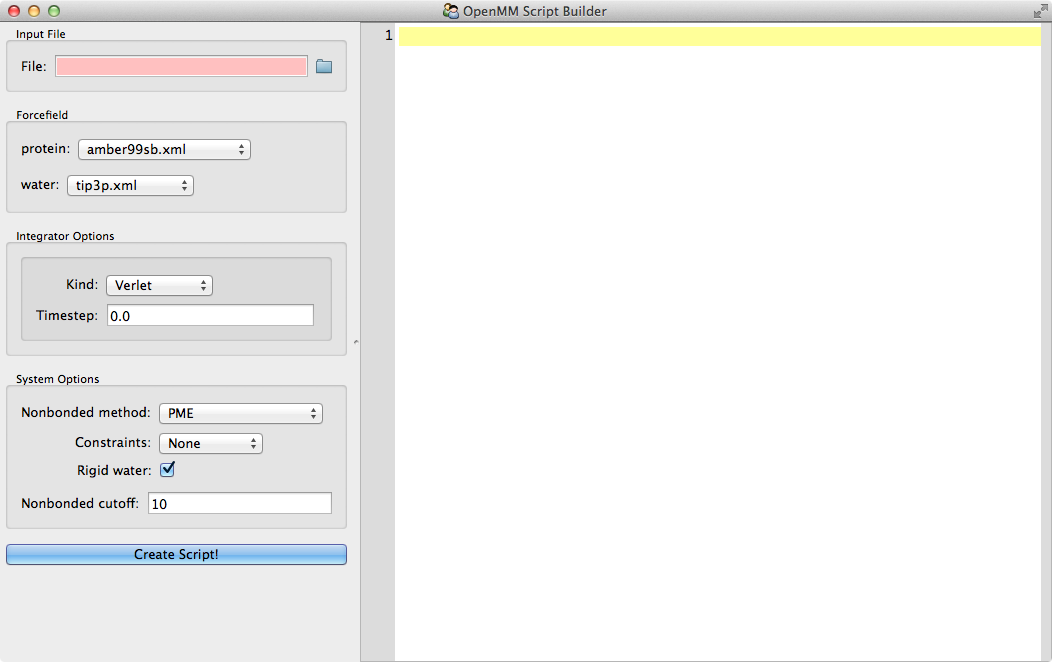
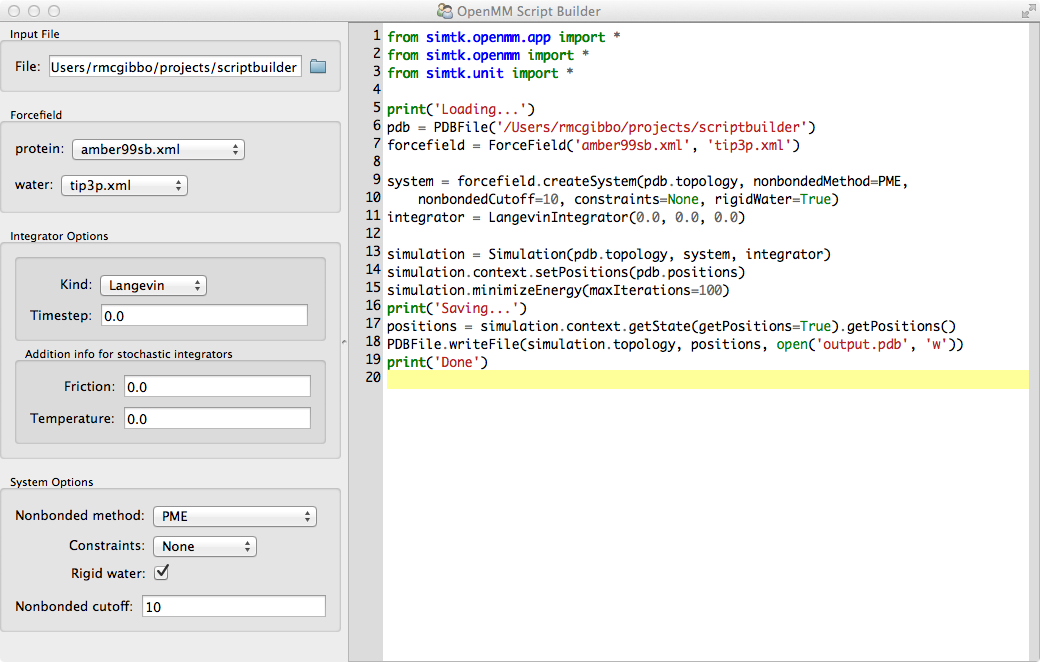
added templating

diff --git a/openmm.py b/openmm.py
@@ -1,15 +1,20 @@
-import os, sys
+# we need to make sure we're using qt right at the beginning
+# because on my machine, wx (the default) doesn't work at all (?)
 from traits.etsconfig.api import ETSConfig
 ETSConfig.toolkit = 'qt4'
+
+import os
+import pystache
 from traits.api import (HasTraits, Str, Int, Enum, Float, Instance,
                         Button, String, Bool, Code, File)
-from traitsui.api import View, Item, Group, Handler,  VGroup, HGroup, HSplit
+from traitsui.api import (View, Item, Group, Handler,  VGroup, HGroup, HSplit)
 
 
 class InputFile(HasTraits):
-    file = File(exists=True)
-    
+    file = File(os.path.abspath('.'), filter=['*.pdb'])
+
     view = View(Group('file', show_border=True, label='Input File'))
+
 
 class Forcefield(HasTraits):
     #-- Trait Definitions ----------------------------------
@@ -20,17 +25,19 @@ class Forcefield(HasTraits):
                                      'amber96_obc.xml', 'amber99_gbvi.xml',
                                      'amber99_obc.xml', 'amber99sb.xml',
                                      'amber99sbildn.xml', 'amber99sbnmr.xml'],
-                    label='protein',
-                    desc='The forcefield for protein')
+                    label='protein')
     water = Enum('tip3p.xml', ['spce.xml', 'tip3p.xml', 'tip4pew.xml',
                                'tip5p.xml'],
-                    label='water',
-                    desc='The water forcefield')
+                    label='water')
+    water_active = Bool(True)
+
+    def _protein_changed(self, protein):
+        self.water_active = not (("gbvi" in protein) or ("obc" in protein))
 
     #-- Trait View Definitions ----------------------------------
     main_group = Group(Item(name='protein'))
     water_group = Group(Item(name='water'),
-        visible_when='not (("gbvi" in protein) or ("obc" in protein))')
+        visible_when='water_active')
     view = View(Group(main_group, water_group, show_border=True,
         label='Forcefield'), resizable=True)
 
@@ -39,7 +46,11 @@ class Integrator(HasTraits):
     #-- Trait Definitions ----------------------------------
     # general traits
     timestep = Float
-    kind = Enum(['Verlet', 'Langevin', 'Brownian'])
+    kind = Enum('Langevin', ['Verlet', 'Langevin', 'Brownian'])
+    stochastic_active = Bool(True)
+
+    def _kind_changed(self, kind):
+        self.stochastic_active = (kind in ["Langevin", "Brownian"])
 
     # traits for stochastic integrators only only:
     temperature = Float
@@ -57,7 +68,7 @@ class Integrator(HasTraits):
         Item(name='temperature'),
         label='Addition info for stochastic integrators',
         show_border=True,
-        visible_when='kind in ["Langevin", "Brownian"]')
+        visible_when='stochastic_active')
 
     view = View(
         Group(main_group,
@@ -78,11 +89,15 @@ class System(HasTraits):
     nonbonded_cutoff = Float(10)
     constraints = Enum('None', ['None', 'HBonds', 'HAngles', 'AllBonds'])
     rigid_water = Bool(True)
+    nonbonded_cutoff_active = Bool(True)
+
+    def _nonbonded_method_changed(self, nonbonded_method):
+        self.nonbonded_cutoff_active = (nonbonded_method != 'NoCutoff')
 
     #-- Trait View Definitions ----------------------------------
     main_group = Group('nonbonded_method', 'constraints', 'rigid_water')
     cutoff_group = Group(Item('nonbonded_cutoff'),
-        visible_when='nonbonded_method != "NoCutoff"')
+        visible_when = 'nonbonded_cutoff_active')
     view = View(Group(main_group, cutoff_group, show_border=True,
         label='System Options'), resizable=True)
 
@@ -93,8 +108,32 @@ class App(HasTraits):
     integrator = Instance(Integrator(), Integrator)
     system = Instance(System(), System)
     display = Code
-    create = Button('Create Script!')
-    
+    #create = Button('Create Script!')
+
+    renderer = pystache.Renderer()
+    template = pystache.parse(u'''
+    from simtk.openmm.app import *
+    from simtk.openmm import *
+    from simtk.unit import *
+
+    print('Loading...')
+    pdb = PDBFile('{{inputfile.file}}')
+    forcefield = ForceField('{{forcefield.protein}}'{{#forcefield.water_active}}, '{{forcefield.water}}'{{/forcefield.water_active}})
+
+    system = forcefield.createSystem(pdb.topology, nonbondedMethod={{system.nonbonded_method}},
+        {{#system.nonbonded_cutoff_active}}nonbondedCutoff={{system.nonbonded_cutoff}},{{/system.nonbonded_cutoff_active}} constraints={{system.constraints}}, rigidWater={{system.rigid_water}})
+    integrator = {{integrator.kind}}Integrator({{#integrator.stochastic_active}}{{integrator.temperature}}, {{integrator.friction}}, {{/integrator.stochastic_active}}{{integrator.timestep}})
+
+    simulation = Simulation(pdb.topology, system, integrator)
+    simulation.context.setPositions(pdb.positions)
+    simulation.minimizeEnergy(maxIterations=100)
+    print('Saving...')
+    positions = simulation.context.getState(getPositions=True).getPositions()
+    PDBFile.writeFile(simulation.topology, positions, open('output.pdb', 'w'))
+    print('Done')
+    ''')
+
+
     #-- Trait View Definitions ----------------------------------
     view = View(
         HSplit(
@@ -103,7 +142,7 @@ class App(HasTraits):
                 Item('forcefield', show_label=False, width=50),
                 Item('integrator', show_label=False, width=50),
                 Item('system',     show_label=False, width=50),
-                Item('create',     show_label=False, width=50),
+                #Item('create',     show_label=False, width=50),
             ),
             Item('display', show_label=False)
         ),
@@ -111,12 +150,22 @@ class App(HasTraits):
         title='OpenMM Script Builder',
         resizable=True
     )
-    
-    def _create_fired(self):
-        try:
-            self.integrator.validate()
-        except Exception as e:
-            self.display = '%s: %s' % (e.__class__.__name__, e.message)
 
+    def __init__(self, **traits):
+        # register dynamic handlers that rebuild the script
+        # anytime a trait changes
+        self.inputfile.on_trait_change(self.update_display)
+        self.forcefield.on_trait_change(self.update_display)
+        self.integrator.on_trait_change(self.update_display)
+        self.system.on_trait_change(self.update_display)
 
-App().configure_traits()
+        super(App, self).__init__(**traits)
+
+    def update_display(self):
+        contents = self.renderer.render(self.template, self)
+        self.display = '\n'.join([line[4:] for line in contents.split('\n')[1:]])
+
+if __name__ == '__main__':
+    import signal
+    signal.signal(signal.SIGINT, signal.SIG_DFL)
+    App().configure_traits()
